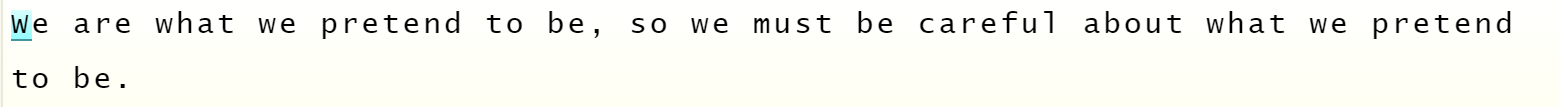
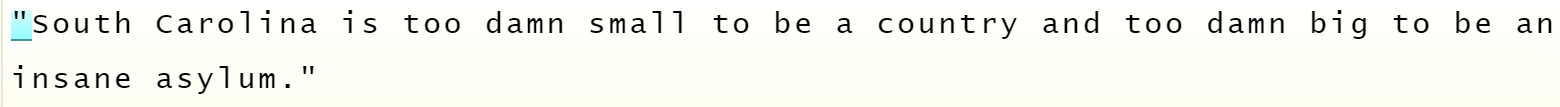
working image catpure and working pytesseract image to text

diff --git a/getimg.py b/getimg.py
@@ -4,6 +4,9 @@ from selenium.webdriver.chrome.options import Options
 from webdriver_manager.chrome import ChromeDriverManager
 import time
 from PIL import Image
+import pytesseract as tess
+tess.pytesseract.tesseract_cmd = r'C:\Program Files\Tesseract-OCR\tesseract.exe'
+
 
 def lanchBrowser():
     options = Options()
@@ -12,7 +15,6 @@ def lanchBrowser():
     
     
     driver.get("https://www.how-to-type.com/typing-practice/quote/")
-    time.sleep(4)
     return driver
 
 driver = lanchBrowser()
@@ -40,16 +42,37 @@ def getScreenshot():
 
     # shows results
     screenshot = Image.open('ss.png')
-    screenshot.show()
-    im.show()
+    #screenshot.show()
+    #im.show()
     print(element, location, size, x, y, width, height)
 
 getScreenshot()
 
+def image_to_text():
+
+    image = 'element.png'
+    text = tess.image_to_string(Image.open(image), lang='eng')
+    print(text)
+
+image_to_text()
 
 def closeBrowser():
-    time.sleep(3)
+    time.sleep(1)
     driver.close()
     return driver
 
 closeBrowser()
+
+
+'''
+def image_to_text():
+    reader = easyocr.Reader(['en'], gpu = False)
+    image_file_name='element.png'
+    image = cv2.imread(image_file_name)
+
+    image_text = (reader.readtext(image,detail=0)[0])
+    print(image_text)
+image_to_text()
+
+only works in py 2
+'''
